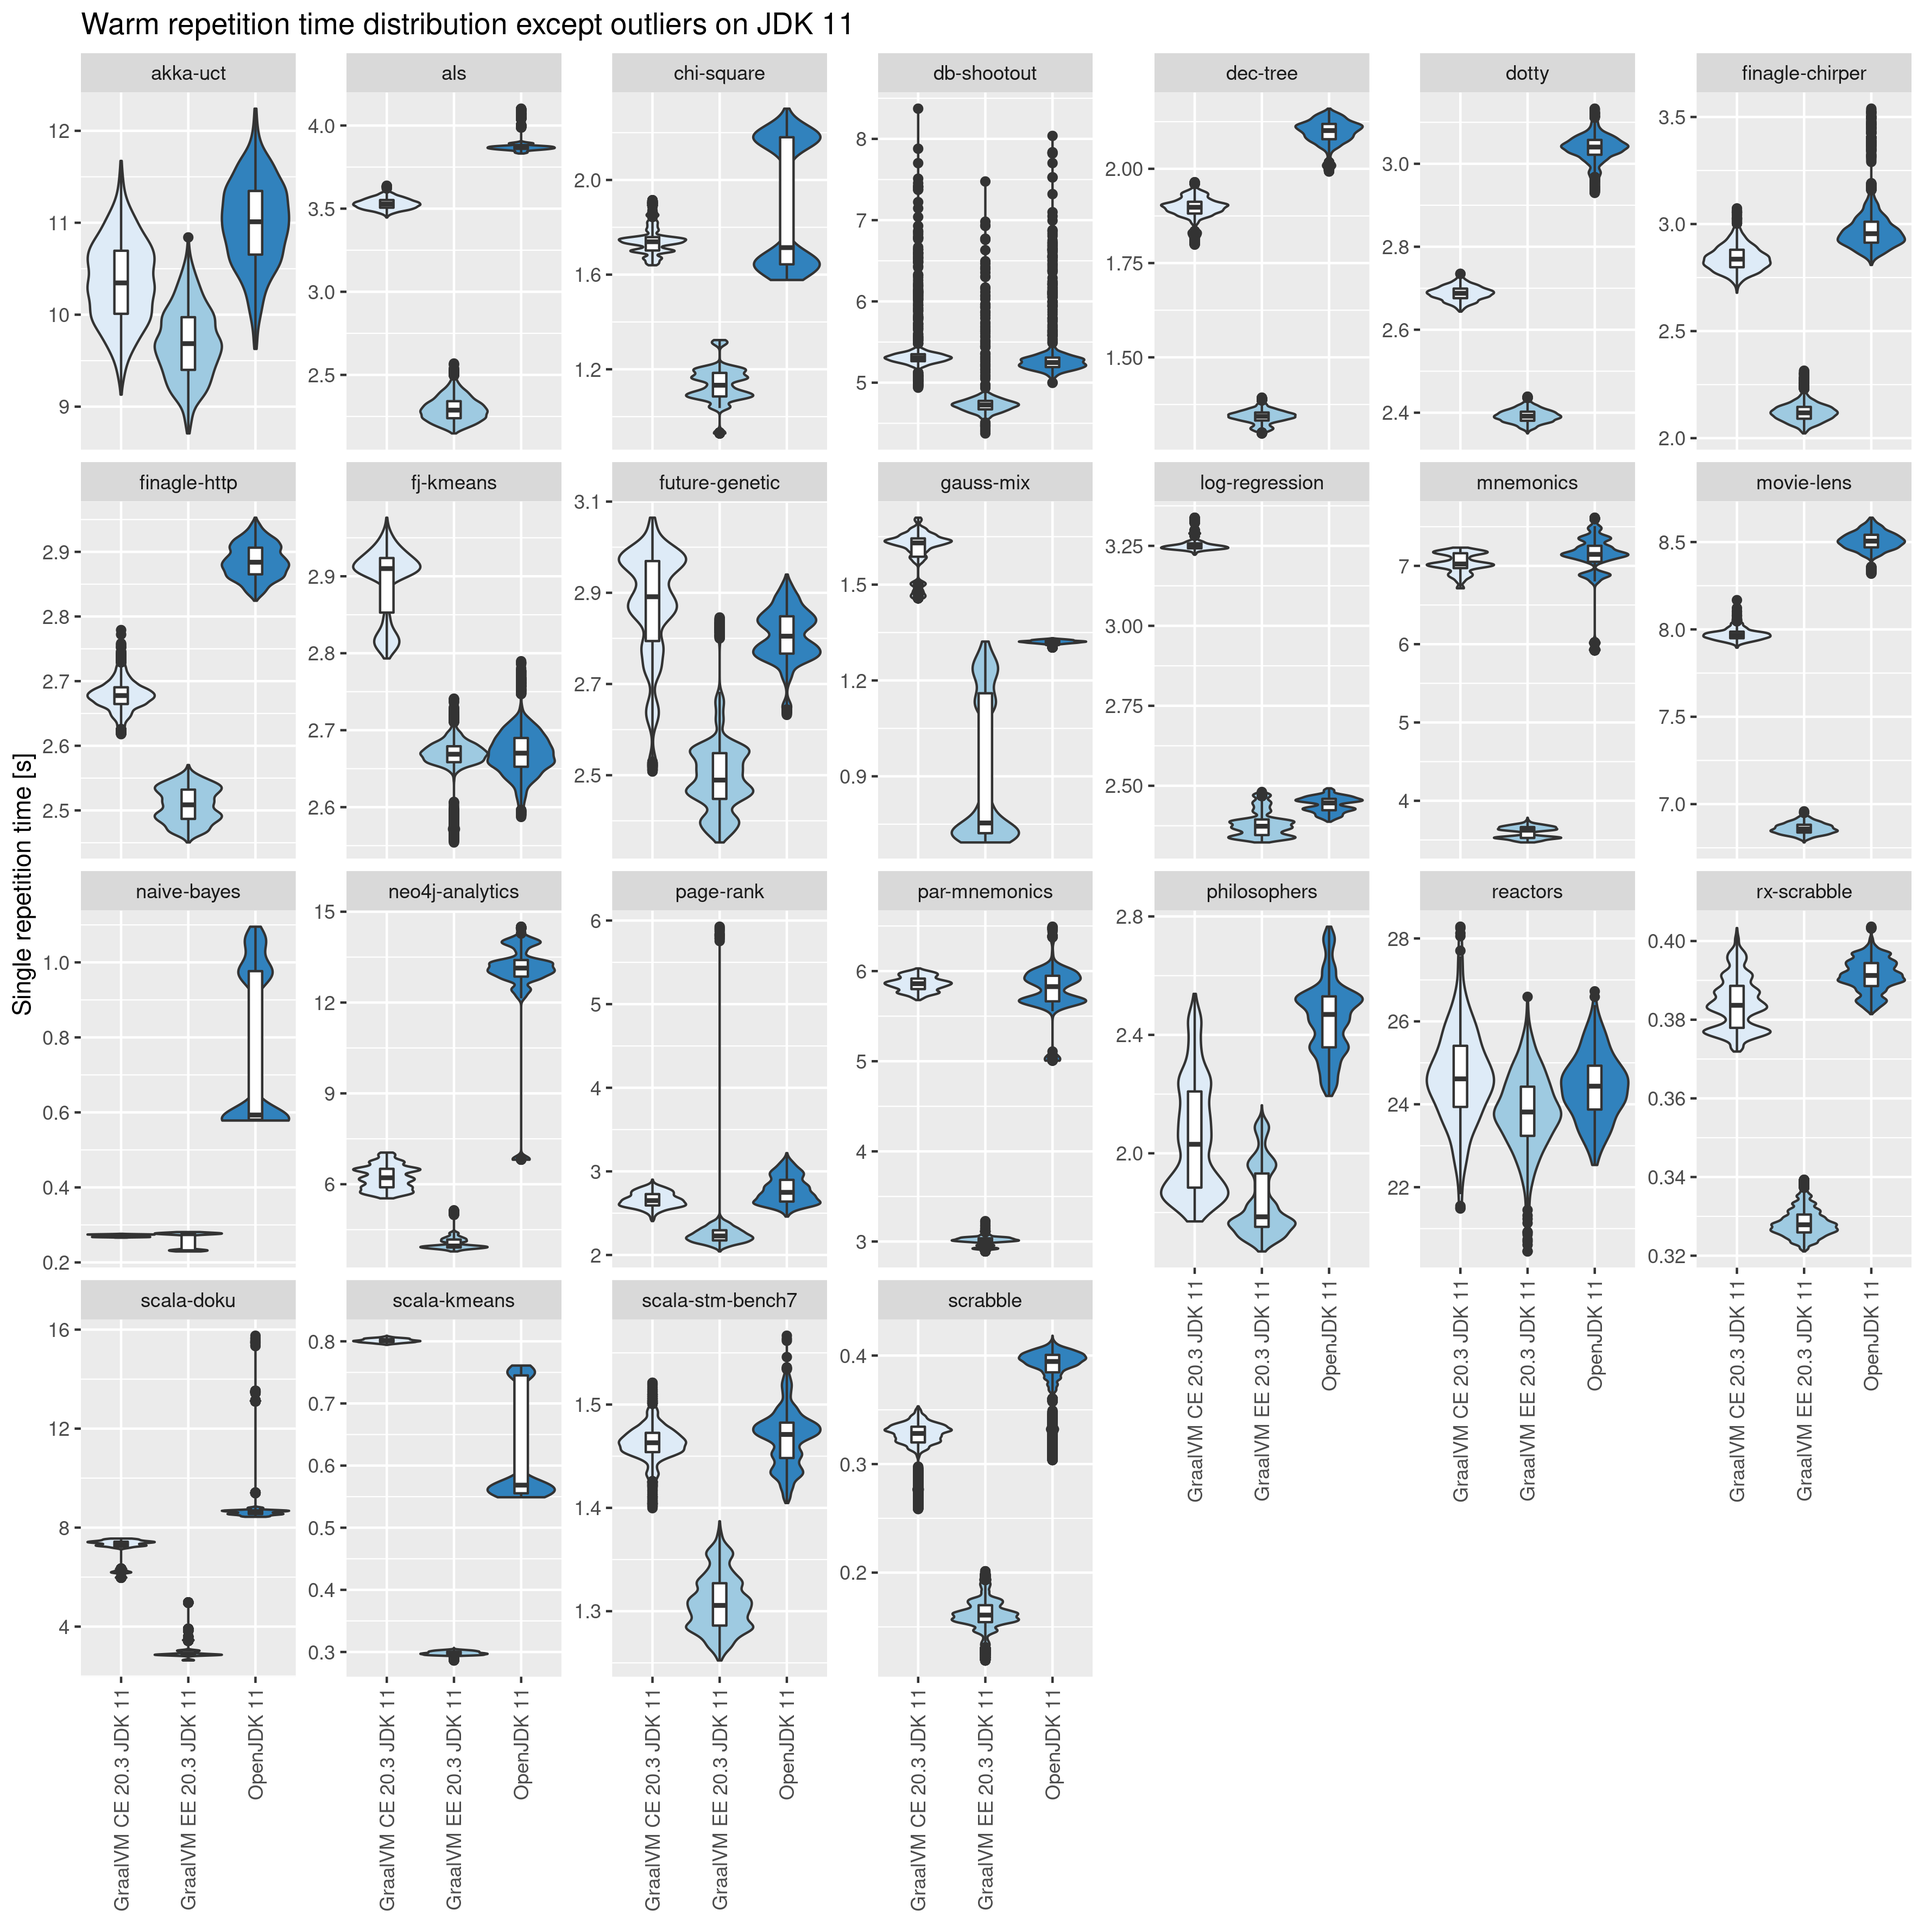
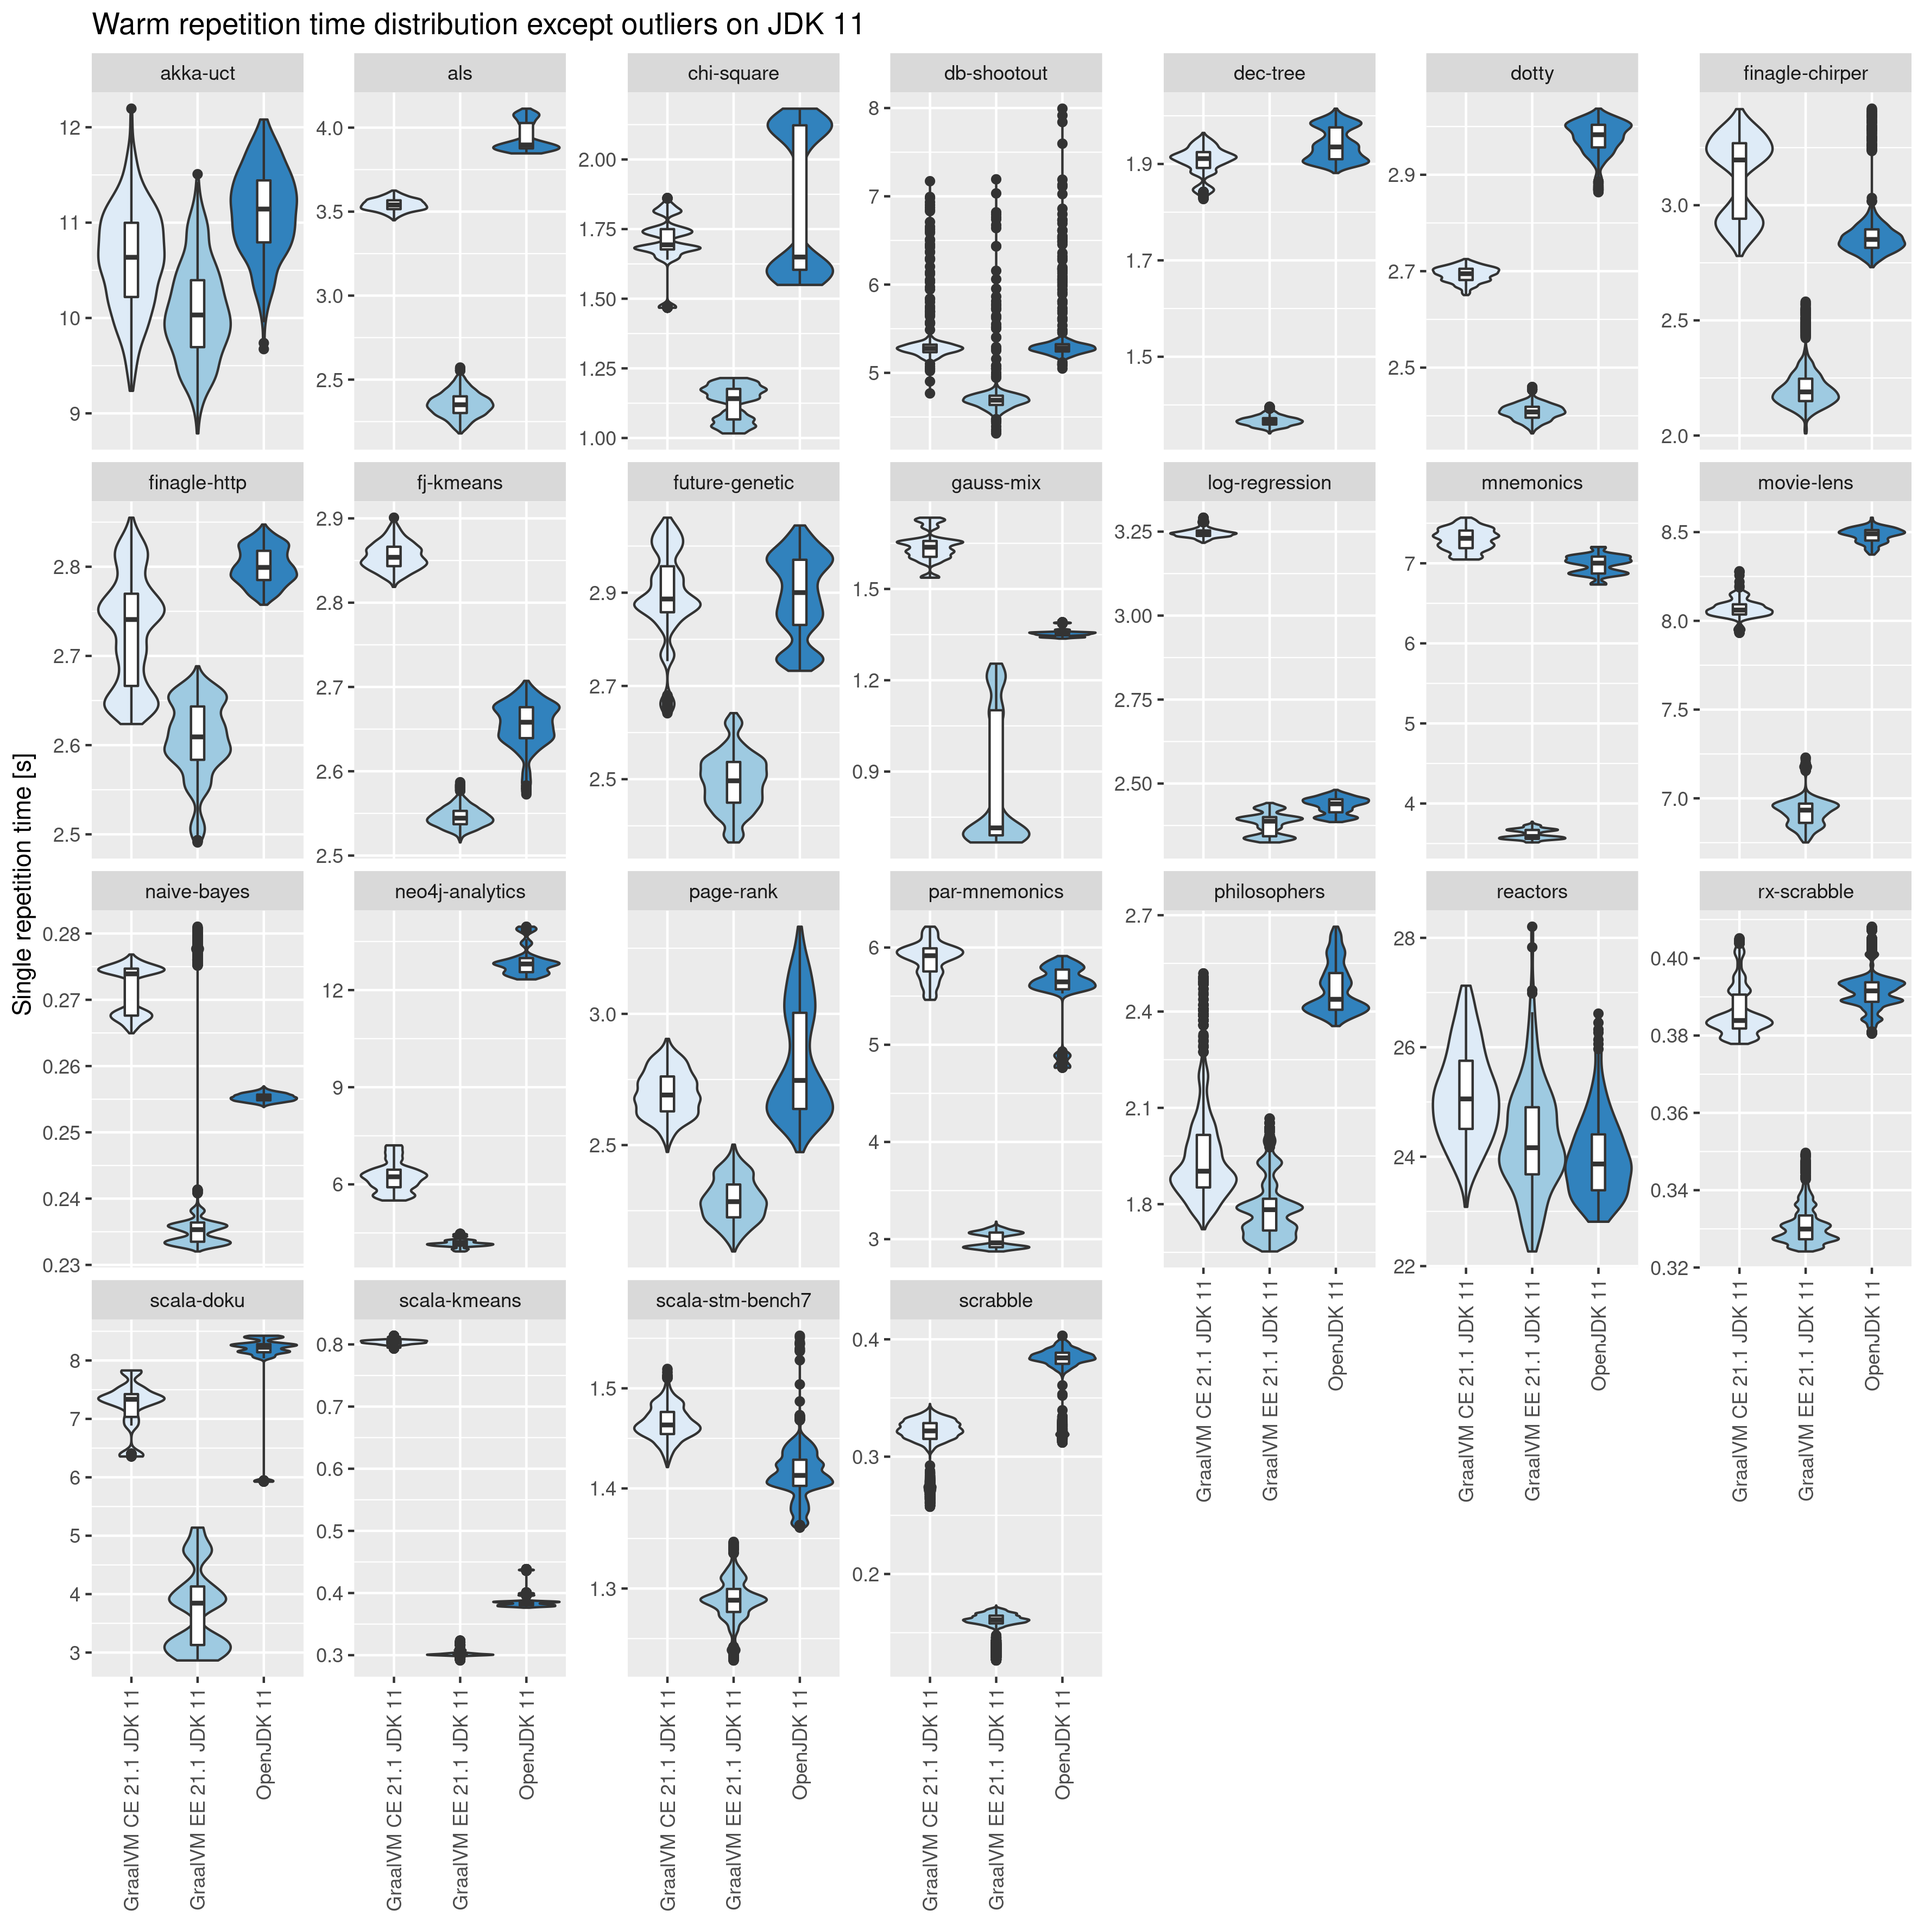
Updated results for GraalVM 21.1.0-dev

diff --git a/README.md b/README.md
@@ -31,32 +31,32 @@ The JVM implementations referenced in the results are:
 
 - **OpenJDK** is the GraalVM Community Edition JVM implementation run with `-XX:-EnableJVMCI -XX:-UseJVMCICompiler` to force the use of the default OpenJDK JIT compiler.
 
-- **GraalVM CE** is GraalVM Community Edition 20.3.0.
+- **GraalVM CE** is GraalVM Community Edition 21.1.0-dev.
 ```
 > java -version
-openjdk version "1.8.0_272"
-OpenJDK Runtime Environment (build 1.8.0_272-b10)
-OpenJDK 64-Bit Server VM GraalVM CE 20.3.0 (build 25.272-b10-jvmci-20.3-b06, mixed mode)
+openjdk version "1.8.0_292"
+OpenJDK Runtime Environment (build 1.8.0_292-b09)
+OpenJDK 64-Bit Server VM GraalVM CE 21.1.0-dev (build 25.292-b09-jvmci-21.1-b05, mixed mode)
 ```
 ```
 > java -version
-openjdk version "11.0.9" 2020-10-20
-OpenJDK Runtime Environment GraalVM CE 20.3.0 (build 11.0.9+10-jvmci-20.3-b06)
-OpenJDK 64-Bit Server VM GraalVM CE 20.3.0 (build 11.0.9+10-jvmci-20.3-b06, mixed mode, sharing)
+openjdk version "11.0.11" 2021-04-20
+OpenJDK Runtime Environment GraalVM CE 21.1.0-dev (build 11.0.11+8-jvmci-21.1-b05)
+OpenJDK 64-Bit Server VM GraalVM CE 21.1.0-dev (build 11.0.11+8-jvmci-21.1-b05, mixed mode, sharing)
 ```
 
-- **GraalVM EE** is GraalVM Enterprise Edition 20.3.0.
+- **GraalVM EE** is GraalVM Enterprise Edition 21.1.0-dev.
 ```
 > java -version
-java version "1.8.0_271"
-Java(TM) SE Runtime Environment (build 1.8.0_271-b09)
-Java HotSpot(TM) 64-Bit Server VM GraalVM EE 20.3.0 (build 25.271-b09-jvmci-20.3-b06, mixed mode)
+java version "1.8.0_291"
+Java(TM) SE Runtime Environment (build 1.8.0_291-b10)
+Java HotSpot(TM) 64-Bit Server VM GraalVM EE 21.1.0-dev (build 25.291-b10-jvmci-21.1-b05, mixed mode)
 ```
 ```
 > java -version
-java version "11.0.9" 2020-10-20 LTS
-Java(TM) SE Runtime Environment GraalVM EE 20.3.0 (build 11.0.9+7-LTS-jvmci-20.3-b06)
-Java HotSpot(TM) 64-Bit Server VM GraalVM EE 20.3.0 (build 11.0.9+7-LTS-jvmci-20.3-b06, mixed mode, sharing)
+java version "11.0.11" 2021-04-20 LTS
+Java(TM) SE Runtime Environment GraalVM EE 21.1.0-dev (build 11.0.11+9-LTS-jvmci-21.1-b05)
+Java HotSpot(TM) 64-Bit Server VM GraalVM EE 21.1.0-dev (build 11.0.11+9-LTS-jvmci-21.1-b05, mixed mode, sharing)
 ```
 
 #### Mean Repetition Times
